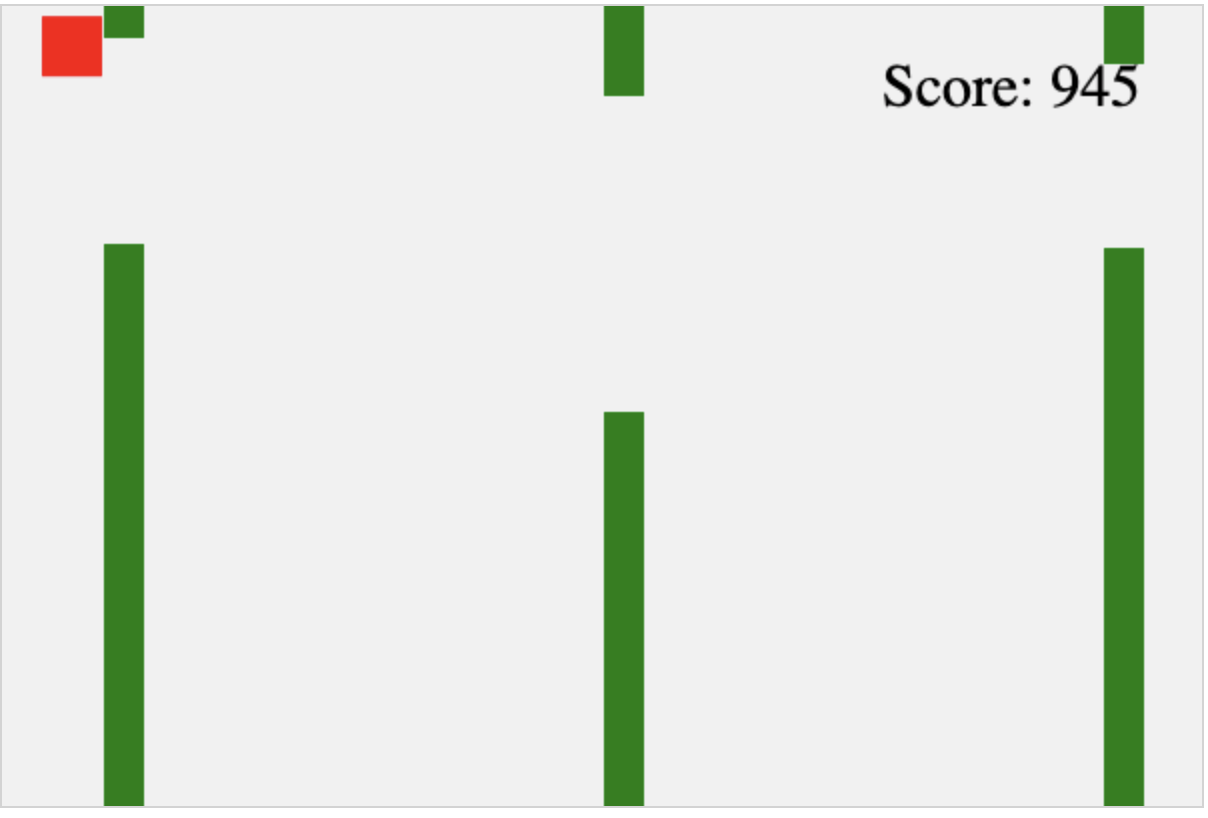
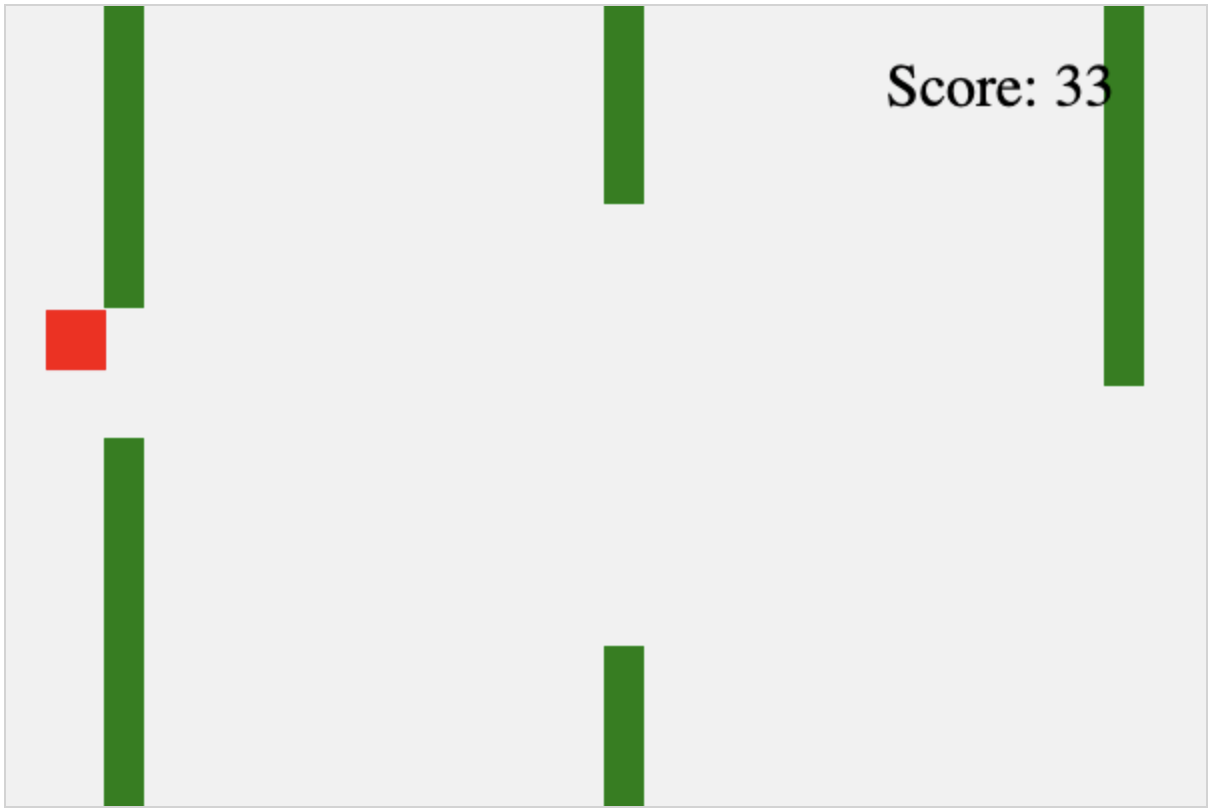
Add ceil collision detection and update hiscore on README

Changed region(s): [[0.0, 0.0, 1.0, 1.0], [0.4901, 0.0309, 0.5513, 0.2785]]

diff --git a/js/game.js b/js/game.js
@@ -163,11 +163,20 @@ function Square(x, y, size) {
         this.y += this.vel * frameRate * 100;
         this.acc = Math.min(0, this.acc + decay);
         this.hitFloor();
+        this.hitCeil();
     }
 
     this.hitFloor = function() {
-        if (this.y >= canvas.height - this.size) {
-            this.y = canvas.height - this.size;
+        var floor = canvas.height - this.size
+        if (this.y >= floor) {
+            this.y = floor;
+            this.vel = 0;
+        }
+    }
+
+    this.hitCeil = function() {
+        if (this.y <= 0) {
+            this.y = 0;
             this.vel = 0;
         }
     }
